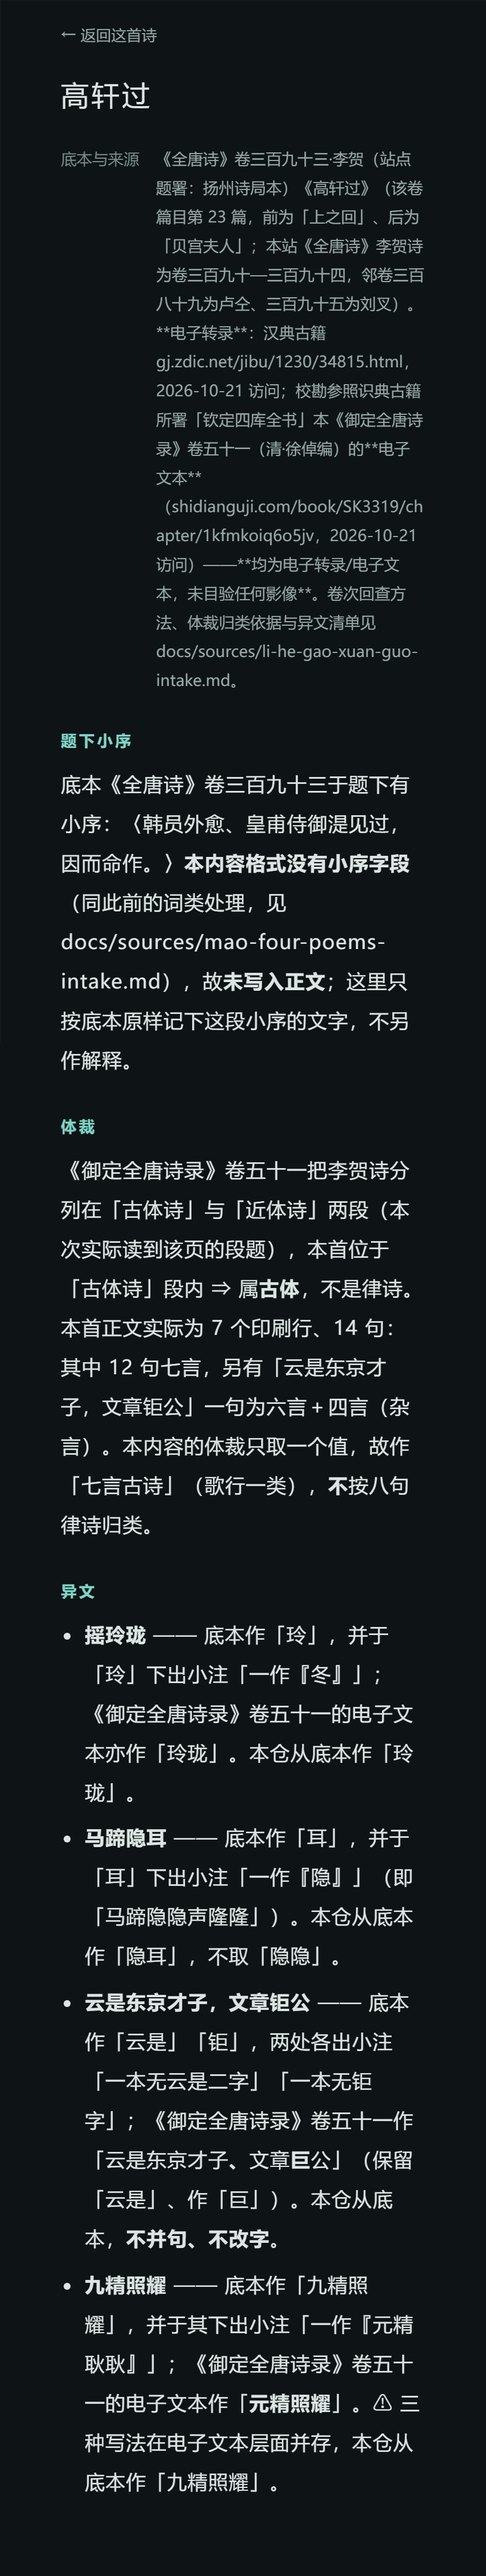
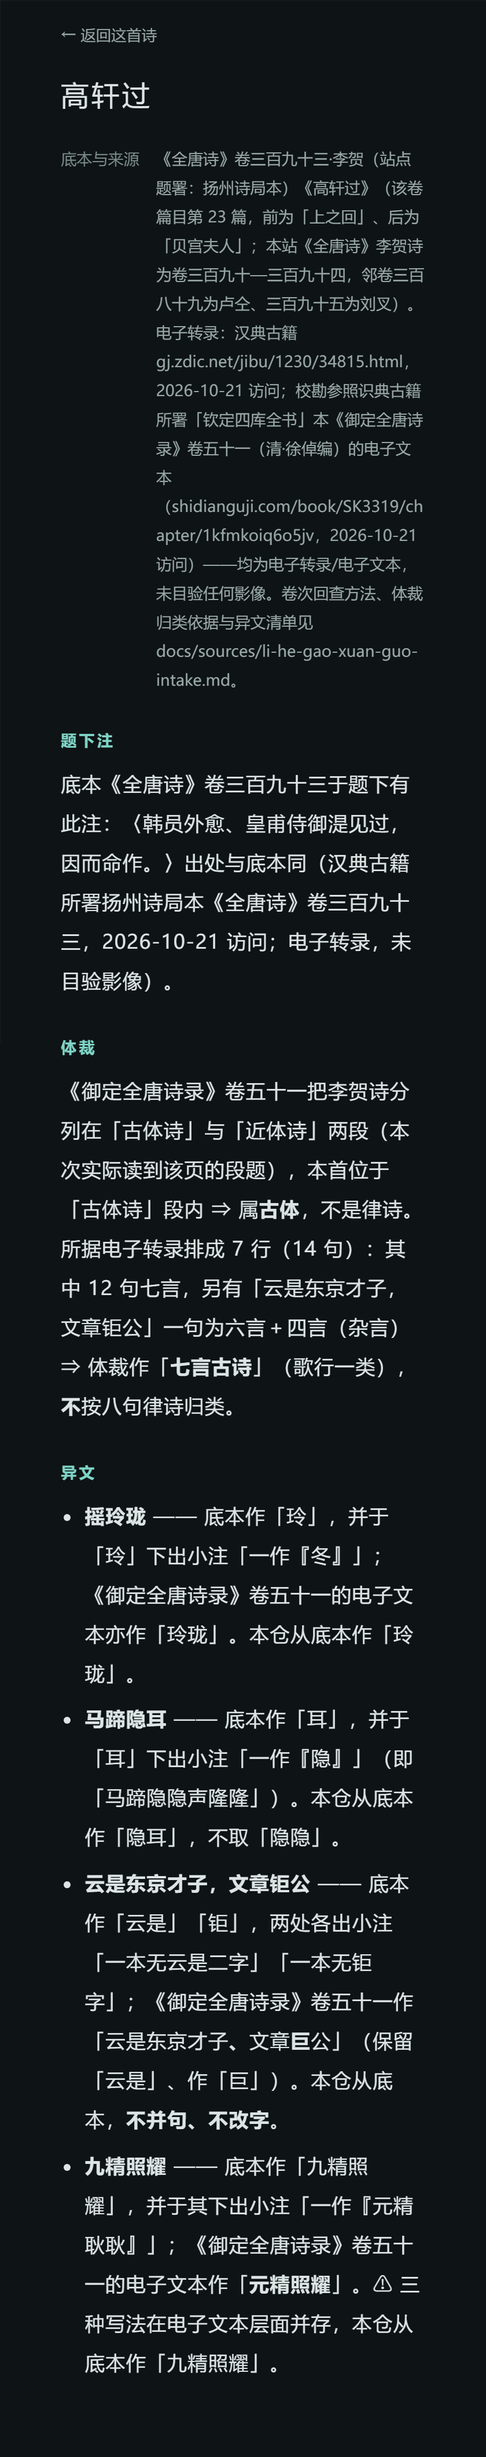
docs(reviews): 高轩过取证按 .20.3 重跑（Web 40/40；Android 补拍 2 张）
- Web：新 origin 127.0.0.1:8823（不是 8471/8664，也不是 .20.2 那次的 8791），断言 36 → **40/40 PASS EXIT 0**；
  新增三条钉住本轮修偏：source 整段无 `*`、detail 不再出现「本内容格式」「字段」「未写入正文」；
  重拍 04-detail（其余 5 张不变，因为改的只是详情/来源文字）
- Android：同一台自起的 emulator-5556 重装 .20.3 后补拍 09（唐组仍 4 行）／10（详情页无星号、题下注）；
  00–08 九张明确标注仍是 .20.2 拍的，README 写清哪张作准（以 10 为准的那段文字）
- 两份 README 的版本/sha/端口全部更新到 d3aab347…／8823；设备 README 补记 175/175 与 APK 内置同 sha

Changed region(s): [[0.1238, 0.0622, 0.8667, 0.9646], [0.1238, 0.0, 0.3095, 0.0622]]

diff --git a/docs/reviews/ui-review/materials-gao-xuan-guo/README.md b/docs/reviews/ui-review/materials-gao-xuan-guo/README.md
@@ -1,13 +1,14 @@
-# Web 端取证：李贺《高轩过》入库后（内容版本 `2026.10.20.2`，**测试号、非发布**）
+# Web 端取证：李贺《高轩过》入库后（内容版本 `2026.10.20.3`，**测试号、非发布**）
 
 - 工作线：工作树 `.sopho-wt/1-216-218-source-url-detail--dd32efd3`（分支 `wt/1-216-218-source-url-detail--dd32efd3`）
 - 日期：**2026-10-21**
 - 基座内容：**`web/content.json`**（本工作树构建的同一份字节）
-  - `contentVersion` = `2026.10.20.2`（**本地测试号，非发布**）
[1 lines of base64/hex data omitted]
-- 预览 origin（**新起，不是 8471/8664**）：`http://127.0.0.1:8791/`，`--root` = 本工作树的 `web/`，`node web/scripts/serve.mjs --port 8791`
+  - `contentVersion` = `2026.10.20.3`（**本地测试号，非发布**；`.20.2` → `.20.3` 只因本首 `source`/`detail` 文字修偏）
[1 lines of base64/hex data omitted]
+- 预览 origin（**新起，不是 8471/8664，也不是上一轮 `.20.2` 的 8791**）：`http://127.0.0.1:8823/`，`--root` = 本工作树的 `web/`，`node web/scripts/serve.mjs --port 8823`
 - 手法：无头 Chromium（本机用 **`msedge.exe`**）＋ CDP，零第三方依赖；脚本 [`web-gao-xuan-guo.mjs`](web-gao-xuan-guo.mjs)；
-  结果 **36 / 36 PASS，EXIT 0**（逐条见 [`web-gao-xuan-guo.log`](web-gao-xuan-guo.log) 与 [`dom-dumps.txt`](dom-dumps.txt)）。
+  结果 **40 / 40 PASS，EXIT 0**（逐条见 [`web-gao-xuan-guo.log`](web-gao-xuan-guo.log) 与 [`dom-dumps.txt`](dom-dumps.txt)）。
+  其中新增的三条断钉住了本轮文字修偏：`source` 整段**没有任何 `*`**、`detail` 不再出现「本内容格式」「字段」「未写入正文」这类工程说明。
 
 ## 看过的图（本目录）
 
@@ -25,15 +26,15 @@
 ## 重跑
 
 ```bash
-# 1) 预览（本机已在 8791 上跑着；若已退出，重开同一端口）
-node web/scripts/serve.mjs --port 8791 --root "$PWD/web"
+# 1) 预览（本机已在 8823 上跑着；若已退出，重开同一端口）
+node web/scripts/serve.mjs --port 8823 --root "$PWD/web"
 # 2) 取证
 CHROME_BIN="C:/Program Files (x86)/Microsoft/Edge/Application/msedge.exe" \
-PREVIEW_BASE="http://127.0.0.1:8791/" node docs/reviews/ui-review/materials-gao-xuan-guo/web-gao-xuan-guo.mjs
+PREVIEW_BASE="http://127.0.0.1:8823/" node docs/reviews/ui-review/materials-gao-xuan-guo/web-gao-xuan-guo.mjs
 ```
 
 ## 已知、且**本次未改**的呈现事实
 
-- 详情页的「底本与来源」是**纯文本**渲染（`web/app/render.js` 用 `text:`），所以 `source:` 里的 `**` 会**原样显示成星号**。
-  这不是本次引入的：`望岳`／两首《梦李白》等既有来源同样带 `**`、同样这样显示。**新诗沿用既有写法**，未单独改成无星号版本；
-  若要统一去掉，是一次**动 29 首 `source`** 的内容决定，另开。
+- 详情页的「底本与来源」是**纯文本**渲染（`web/app/render.js` 用 `text:`）⇒ 该字段里写 Markdown 强调会被**原样显示成星号**。
+  **本轮已把本首 `source` 里的 `**` 全部去掉**（`2026.10.20.3`），所以本首不再显示星号；
+  但 **旧 28 首的 `source` 未动**，它们里的 `**` 仍会这样显示（这不是本次引入的，也不在本轮改动范围内）。

diff --git a/docs/reviews/device-acceptance/gao-xuan-guo/README.md b/docs/reviews/device-acceptance/gao-xuan-guo/README.md
@@ -1,4 +1,14 @@
-# Android 端实测：李贺《高轩过》入库后（debug 构建，内容 `2026.10.20.2`）
+# Android 端实测：李贺《高轩过》入库后（debug 构建，内容 `2026.10.20.2` / `2026.10.20.3`）
+
+> **2026-10-21 补记（`.20.3` 文字修偏后重拍）**：本首 `source` 去掉全部 `**`、`detail` 的「题下小序」改为「题下注」并删掉工程说明。
[1 lines of base64/hex data omitted]
+> 重装 debug APK ⇒ **APK 内 `assets/content/content.json` 实算同 sha**，单测 **175/175**（`testDebugUnitTest --offline --no-build-cache --rerun-tasks` EXIT 0）。
+> 同一台 `emulator-5556` 重拍两张：
+> - `09-tang-4-v2.png`：「唐」组仍是 4 行（望岳／其一／其二／高轩过·李贺）
+> - `10-detail-v2-no-asterisks.png`：详情页「底本与来源」**不再有星号**、「题下注」小节与新的体裁措辞
+>
+> ⚠ **`00`–`08` 那九张仍是 `.20.2` 拍的**（本轮只改了本首的 source/detail 文字，正文／分行／`genre`／唐组次序／标签均未变），
+> 所以它们的诗页、列表、标签页结论继续有效；**只有「底本与来源」那段文字以 `10` 为准**。
 
 - 日期：**2026-10-21**；串行、逐条 `-s emulator-5556`
 - 设备：**`emulator-5556`**（本次由本工作线**自行启动**的 AVD `godot_test`）
